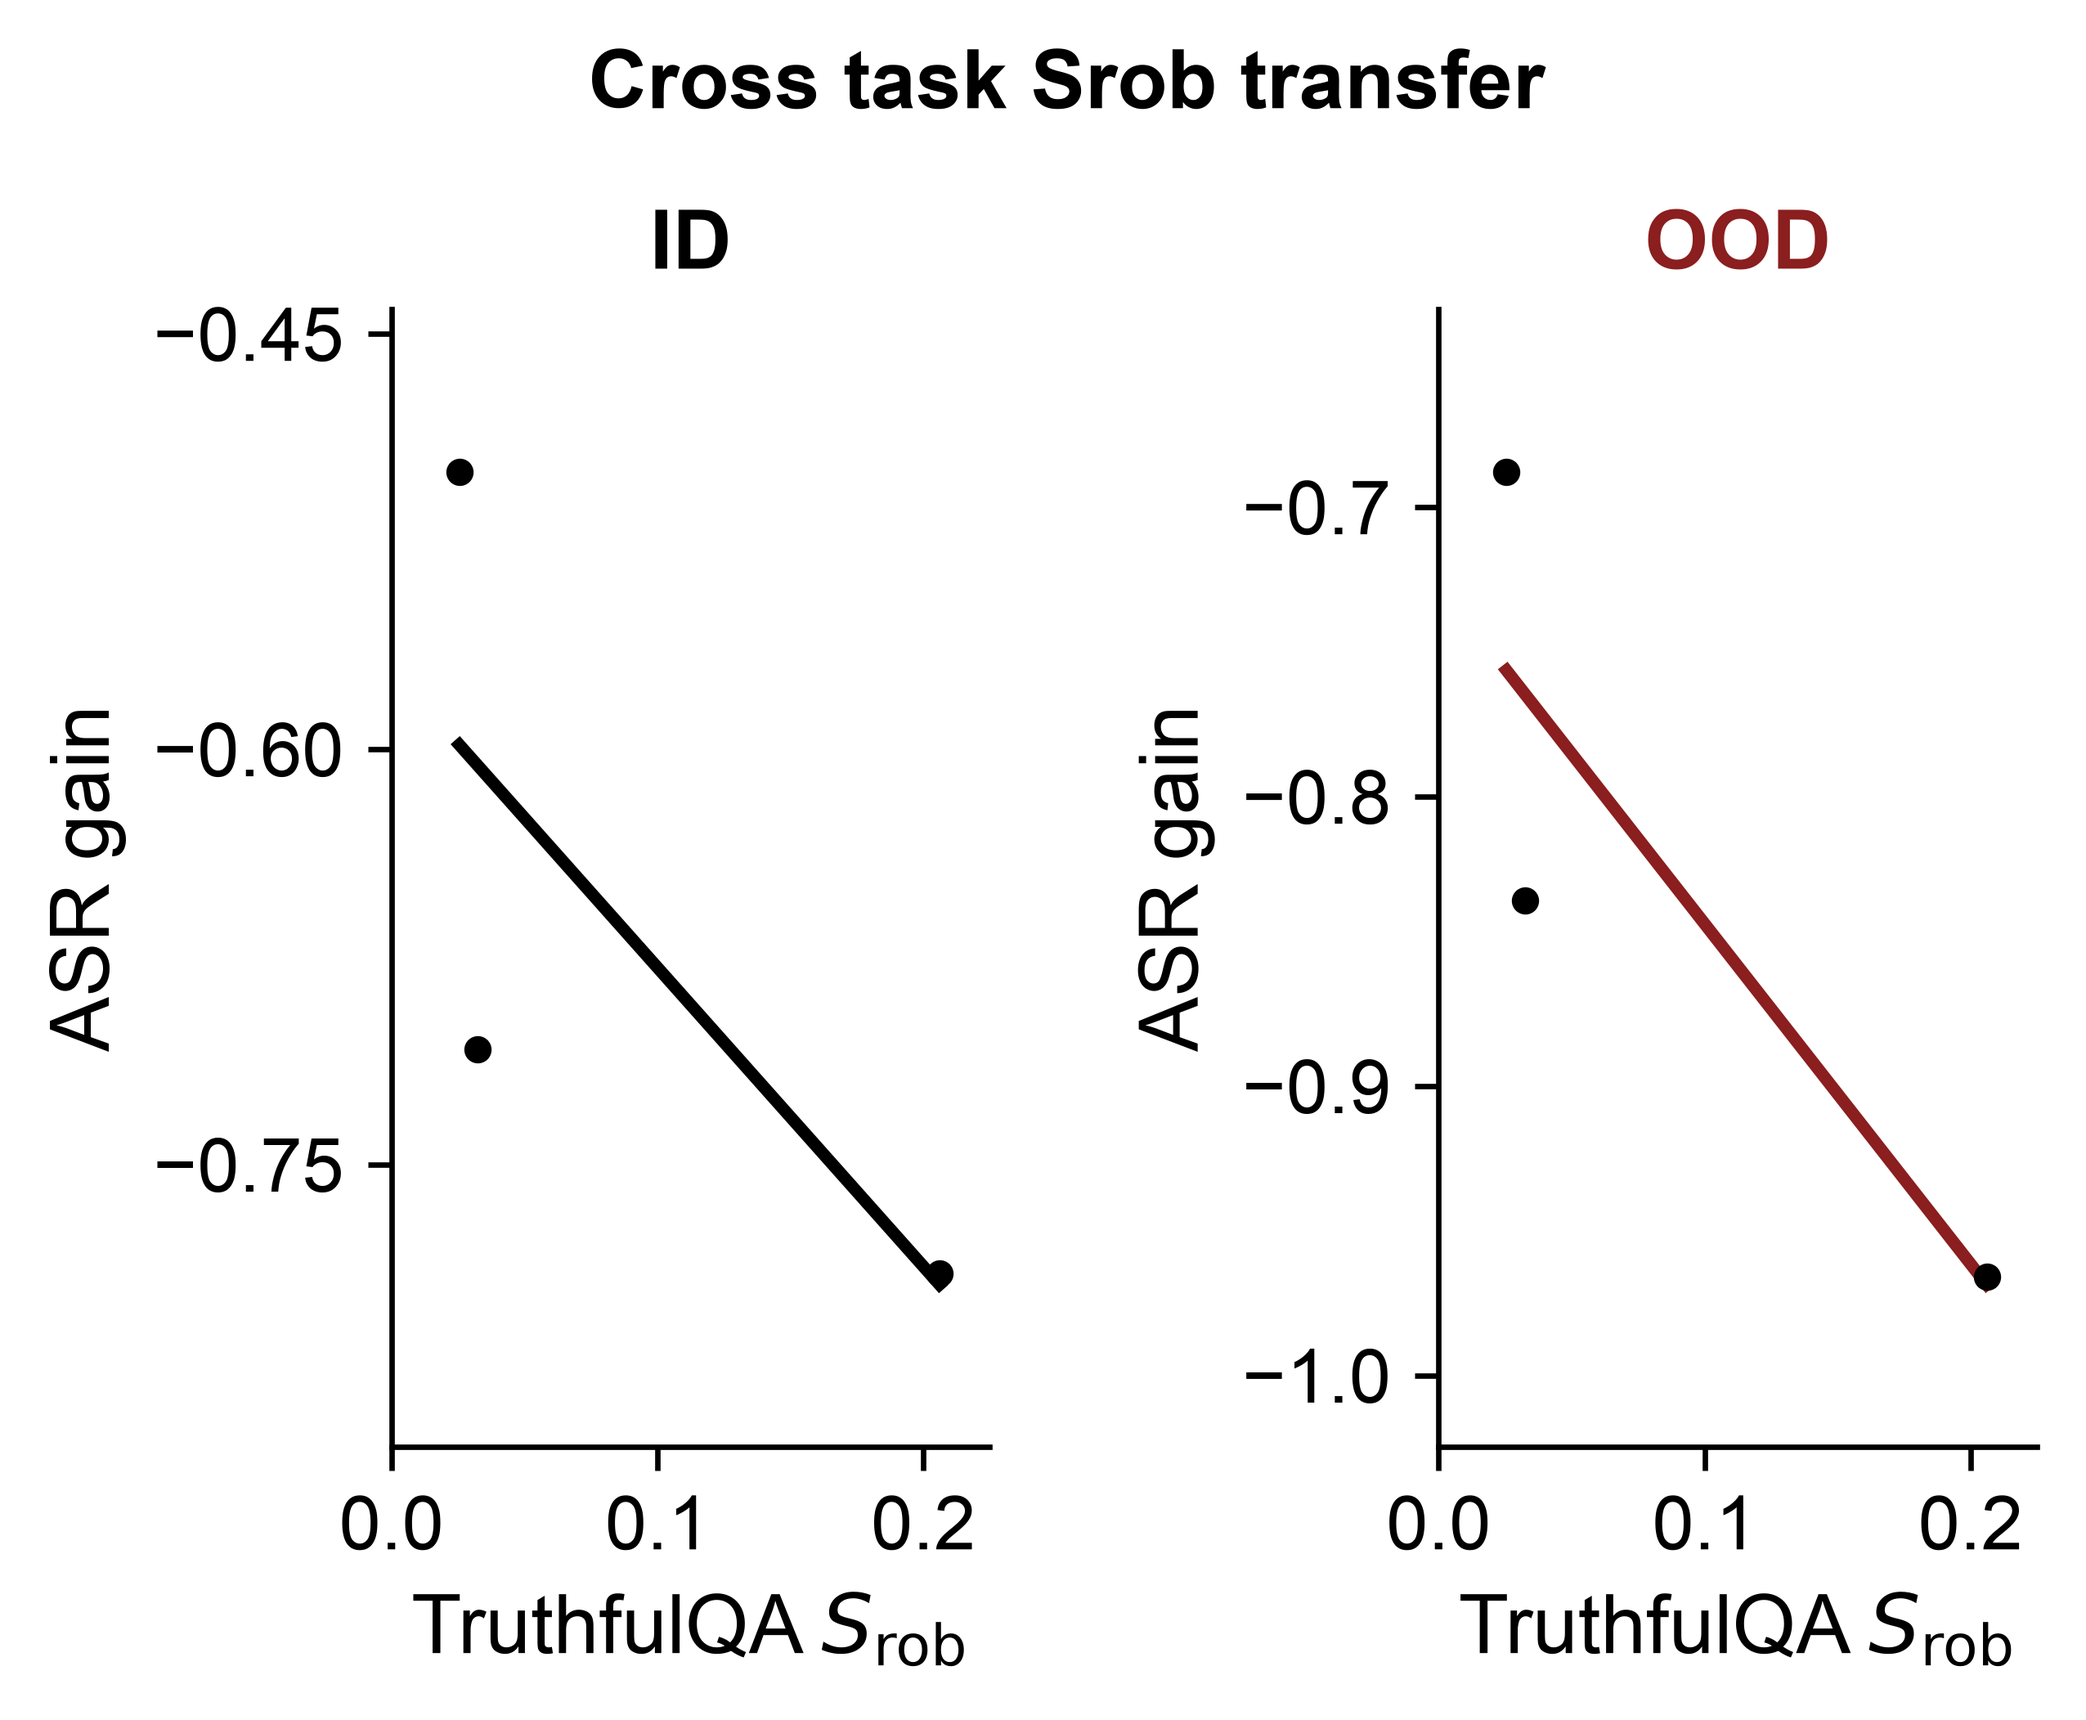
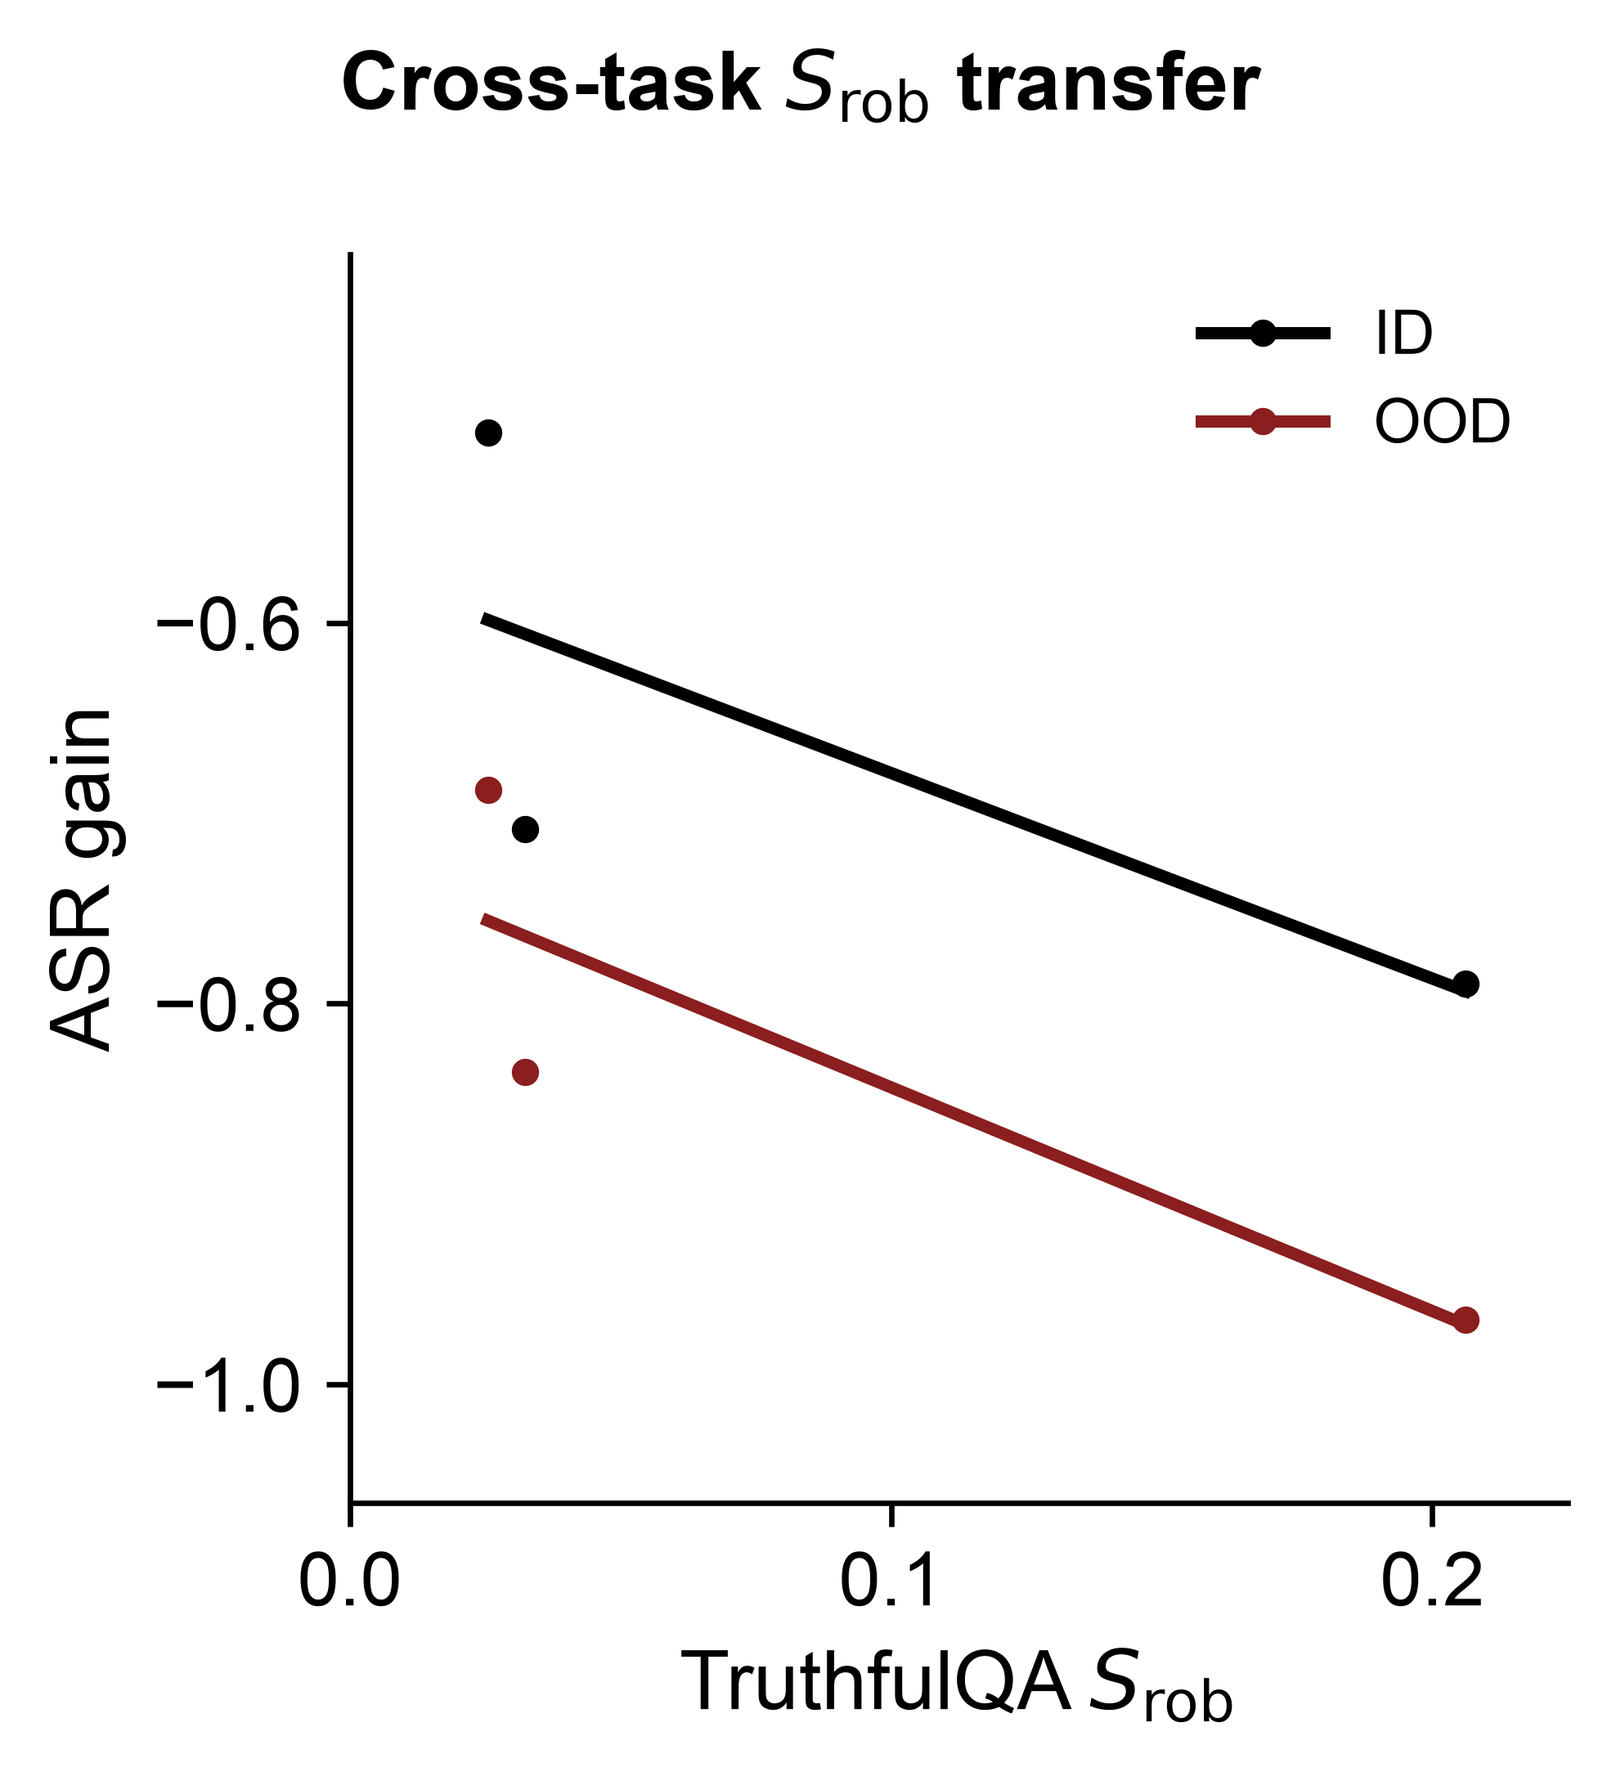
fig: overlay ID and OOD cross-task transfer in one panel

diff --git a/parking/rudra_rebuttal_cross_task_srob/plot_truthful_to_harmbench.py b/parking/rudra_rebuttal_cross_task_srob/plot_truthful_to_harmbench.py
@@ -8,6 +8,7 @@ import json
 import matplotlib
 matplotlib.use("Agg")
 import matplotlib.pyplot as plt
+from matplotlib.lines import Line2D
 import numpy as np
 from scipy.stats import linregress
 
@@ -26,8 +27,8 @@ def main() -> None:
     plt.rcParams.update({"font.family": "Arial", "font.size": 11, "axes.labelsize": 12,
                          "axes.titlesize": 12, "axes.spines.top": False,
                          "axes.spines.right": False, "pdf.fonttype": 42})
-    fig, axes = plt.subplots(1, 2, figsize=(4.3, 3.8))
-    for ax, split, color in zip(axes, ("ID", "OOD"), ("black", "#8B1E1E"), strict=True):
+    fig, ax = plt.subplots(figsize=(3.4, 3.8))
+    for split, color in zip(("ID", "OOD"), ("black", "#8B1E1E"), strict=True):
         selected = []
         for source_model, target_model in PAIRS:
             srob_values = {row["srob"] for row in truthful if row["benchmark"] == "TruthfulQA"
@@ -53,15 +54,18 @@ def main() -> None:
                      "slope": float(fit.slope), "intercept": float(fit.intercept)})
         curve_x = np.linspace(x.min(), x.max(), 100)
         ax.plot(curve_x, fit.intercept + fit.slope * curve_x, color=color, linewidth=1.8)
-        ax.scatter(x, y, color="black", s=9, zorder=3)
-        ax.set(title=split, xlabel=r"TruthfulQA $S_{\mathrm{rob}}$", ylabel="ASR gain",
-               xlim=(0.01, 0.225), xticks=[0, 0.1, 0.2])
-        ax.title.set_color(color)
-        ax.title.set_fontweight("bold")
-        ax.yaxis.set_major_locator(plt.MaxNLocator(4))
-        ax.margins(y=0.20)
-    fig.suptitle("Cross task Srob transfer", fontsize=12, fontweight="bold", y=0.98)
-    fig.subplots_adjust(left=0.18, right=0.96, bottom=0.23, top=0.84, wspace=0.75)
+        ax.scatter(x, y, color=color, s=9, zorder=3)
+    ax.set(xlabel=r"TruthfulQA $S_{\mathrm{rob}}$", ylabel="ASR gain",
+           xlim=(0.01, 0.225), xticks=[0, 0.1, 0.2])
+    ax.yaxis.set_major_locator(plt.MaxNLocator(4))
+    ax.margins(y=0.20)
+    ax.legend(handles=[Line2D([0], [0], color=color, linewidth=1.8, marker="o",
+                              markersize=3, label=split)
+                       for split, color in (("ID", "black"), ("OOD", "#8B1E1E"))],
+              loc="upper right", frameon=False, fontsize=9)
+    fig.suptitle(r"Cross-task $S_{\mathrm{rob}}$ transfer", fontsize=12,
+                 fontweight="bold", y=0.98)
+    fig.subplots_adjust(left=0.23, right=0.96, bottom=0.20, top=0.87)
     plots, tables = UNIT / "plots", UNIT / "tables"
     plots.mkdir(exist_ok=True)
     tables.mkdir(exist_ok=True)
